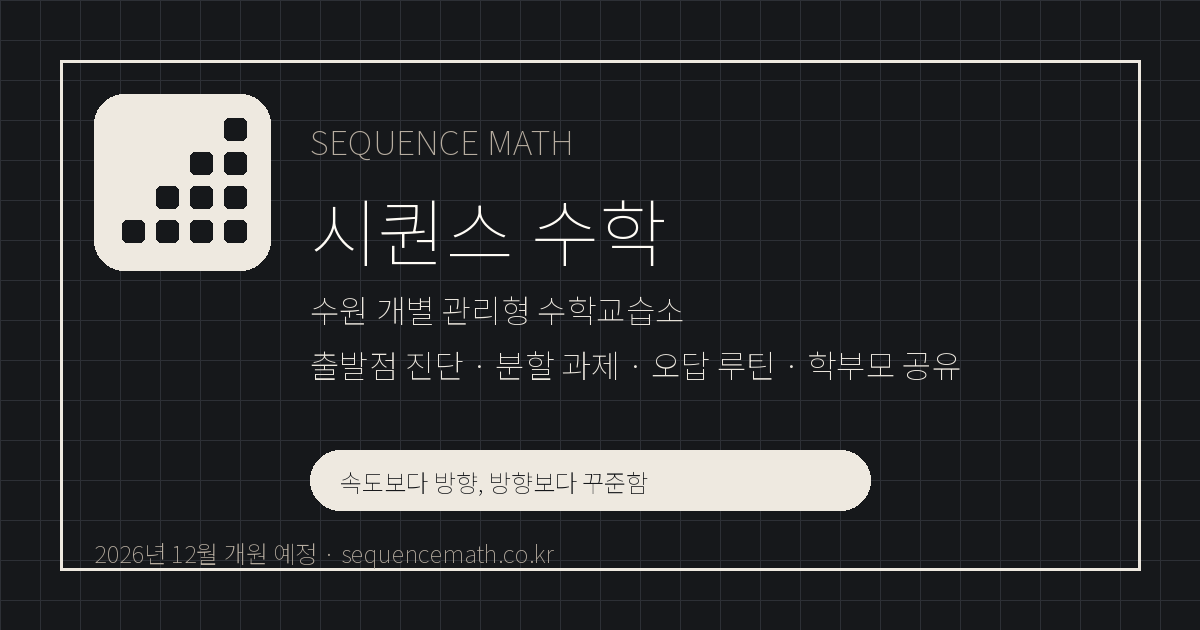
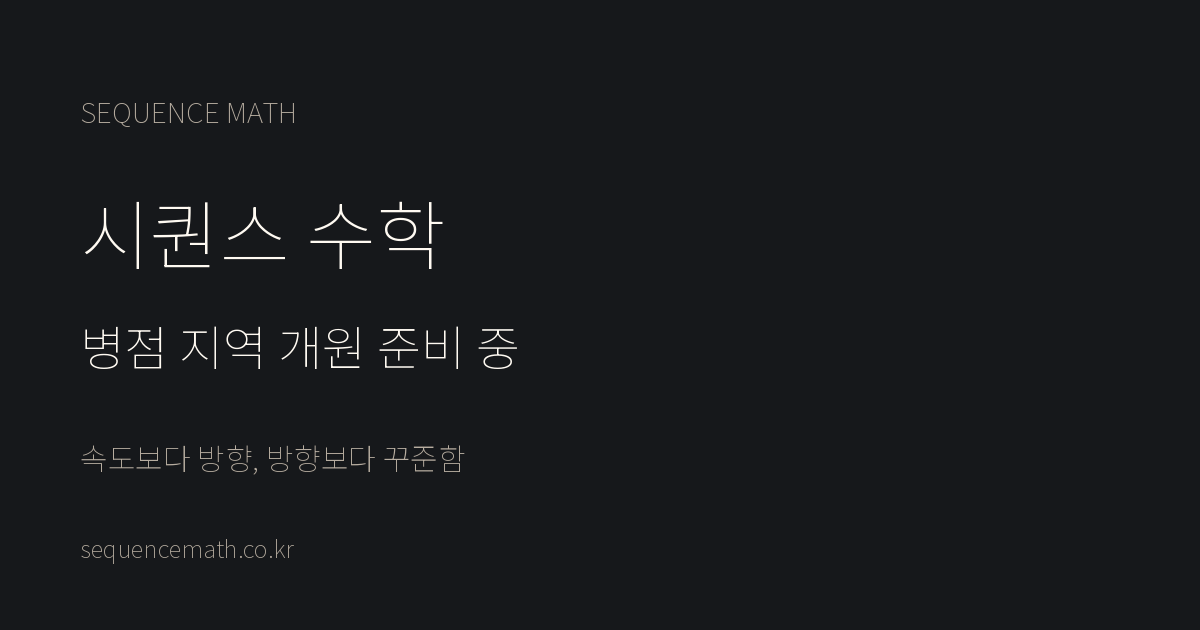
Publish Byeongjeom preopening region without detailed location

Changed region(s): [[0.0308, 0.0905, 0.9558, 0.9048], [0.6783, 0.5429, 0.8017, 0.6032]]

diff --git a/index.html b/index.html
@@ -5,9 +5,9 @@
   <meta name="viewport" content="width=device-width, initial-scale=1.0" />
 
   <!-- ── 기본 메타 태그 ─────────────────────── -->
-  <title>시퀀스 수학 | 수원 개별 관리형 수학교습소 · 초5~고2 수학 루틴 관리</title>
-  <meta name="description" content="수원 개별 관리형 수학교습소 시퀀스 수학. 초등 저학년은 수 감각·태도를, 초5~고2는 출발점 진단·분할 과제·오답 루틴·학부모 공유로 수학 루틴을 함께 만들어갑니다. 2026년 12월 개원 예정." />
-  <meta name="keywords" content="수원 수학교습소, 수원 수학학원, 수원 1:1 수학, 수원 개인과외, 초등수학 수원, 중학수학 수원, 고등수학 수원, 수능수학 수원, 내신수학 수원, 시퀀스수학" />
+  <title>시퀀스 수학 | 병점 개별 관리형 수학 · 초5~고2 수학 루틴 관리</title>
+  <meta name="description" content="병점 개별 관리형 수학 시퀀스 수학. 초등 저학년은 수 감각·태도를, 초5~고2는 출발점 진단·분할 과제·오답 루틴·학부모 공유로 수학 루틴을 함께 만들어갑니다. 병점 지역 개원 준비 중." />
+  <meta name="keywords" content="병점 지역 개원 준비 중, 병점 수학학원, 병점 1:1 수학, 병점 개인과외, 초등수학 병점, 중학수학 병점, 고등수학 병점, 수능수학 병점, 내신수학 병점, 시퀀스수학" />
   <meta name="author" content="시퀀스 수학" />
   <meta name="robots" content="index, follow" />
   <link rel="canonical" href="https://sequencemath.co.kr/" />
@@ -22,25 +22,23 @@
   <meta property="og:type" content="website" />
   <meta property="og:url" content="https://sequencemath.co.kr/" />
   <meta property="og:site_name" content="시퀀스 수학" />
-  <meta property="og:title" content="시퀀스 수학 | 수원 개별 관리형 수학교습소 · 초5~고2 수학 루틴 관리" />
-  <meta property="og:description" content="수원 개별 관리형 수학교습소 시퀀스 수학. 출발점 진단·분할 과제·오답 루틴 관리·학부모 공유로 초5~고2 수학 루틴을 함께 만들어갑니다. 2026년 12월 개원 예정." />
-  <meta property="og:image" content="https://sequencemath.co.kr/img/og-image.png" />
+  <meta property="og:title" content="시퀀스 수학 | 병점 개별 관리형 수학 · 초5~고2 수학 루틴 관리" />
+  <meta property="og:description" content="병점 개별 관리형 수학 시퀀스 수학. 출발점 진단·분할 과제·오답 루틴 관리·학부모 공유로 초5~고2 수학 루틴을 함께 만들어갑니다. 병점 지역 개원 준비 중." />
+  <meta property="og:image" content="https://sequencemath.co.kr/img/og-byeongjeom.png" />
   <meta property="og:image:width" content="1200" />
   <meta property="og:image:height" content="630" />
-  <meta property="og:image:alt" content="시퀀스 수학 — 수원 1:1 맞춤 수학교습소" />
+  <meta property="og:image:alt" content="시퀀스 수학 — 병점 지역 개원 준비 중" />
   <meta property="og:locale" content="ko_KR" />
 
   <!-- ── 트위터 카드 ─────────────────────────── -->
   <meta name="twitter:card" content="summary_large_image" />
-  <meta name="twitter:title" content="시퀀스 수학 | 수원 개별 관리형 수학교습소 · 초5~고2 수학 루틴 관리" />
-  <meta name="twitter:description" content="수원 개별 관리형 수학교습소. 출발점 진단, 분할 과제, 오답 루틴 관리, 학부모 공유로 초5~고2 수학 루틴을 함께 만들어갑니다. 2026년 12월 개원 예정." />
-  <meta name="twitter:image" content="https://sequencemath.co.kr/img/og-image.png" />
+  <meta name="twitter:title" content="시퀀스 수학 | 병점 개별 관리형 수학 · 초5~고2 수학 루틴 관리" />
+  <meta name="twitter:description" content="병점 개별 관리형 수학. 출발점 진단, 분할 과제, 오답 루틴 관리, 학부모 공유로 초5~고2 수학 루틴을 함께 만들어갑니다. 병점 지역 개원 준비 중." />
+  <meta name="twitter:image" content="https://sequencemath.co.kr/img/og-byeongjeom.png" />
 
   <!-- ── 지역 SEO ────────────────────────────── -->
   <meta name="geo.region" content="KR-41" />
-  <meta name="geo.placename" content="수원시, 경기도" />
-  <meta name="geo.position" content="37.2636;127.0286" />
-  <meta name="ICBM" content="37.2636, 127.0286" />
+  <meta name="geo.placename" content="화성시, 경기도" />
 
   <!-- ── 파비콘 & 웹 앱 매니페스트 ────────────── -->
   <link rel="icon" type="image/x-icon" href="/img/favicon.ico" />
@@ -61,21 +59,16 @@
         "@id": "https://sequencemath.co.kr/#organization",
         "name": "시퀀스 수학",
         "alternateName": "Sequence Math Academy",
-        "description": "시퀀스 수학은 수원 지역의 개별 관리형 수학교습소입니다. 초등 저학년은 수 감각과 학습 태도를, 초5~고2는 개념 구조와 공부 루틴을 중심으로 상담하며, 고3은 현재 학습 상태 점검과 보완 방향을 상담합니다.",
+        "description": "시퀀스 수학은 병점 지역 개원 준비 중입니다. 초등 저학년은 수 감각과 학습 태도를, 초5~고2는 개념 구조와 공부 루틴을 중심으로 상담하며, 고3은 현재 학습 상태 점검과 보완 방향을 상담합니다.",
         "url": "https://sequencemath.co.kr",
         "telephone": "+82-10-2496-4031",
         "sameAs": ["https://www.instagram.com/sequence_edu"],
         "foundingDate": "2026",
         "address": {
           "@type": "PostalAddress",
-          "addressLocality": "수원시",
+          "addressLocality": "화성시",
           "addressRegion": "경기도",
           "addressCountry": "KR"
-        },
-        "geo": {
-          "@type": "GeoCoordinates",
-          "latitude": "37.2636",
-          "longitude": "127.0286"
         },
         "openingHoursSpecification": [
           {
@@ -93,7 +86,7 @@
         ],
         "priceRange": "$$",
         "currenciesAccepted": "KRW",
-        "areaServed": { "@type": "City", "name": "수원시" },
+        "areaServed": { "@type": "City", "name": "화성시" },
         "hasOfferCatalog": {
           "@type": "OfferCatalog",
           "name": "학년별 수학 상담 과정",
@@ -262,7 +255,7 @@
         "@id": "https://sequencemath.co.kr/#website",
         "url": "https://sequencemath.co.kr",
         "name": "시퀀스 수학",
-        "description": "수원 개별 관리형 수학교습소 시퀀스 수학 공식 홈페이지",
+        "description": "병점 개별 관리형 수학 시퀀스 수학 공식 홈페이지",
         "inLanguage": "ko-KR",
         "publisher": { "@id": "https://sequencemath.co.kr/#organization" }
       },
@@ -338,7 +331,7 @@
   <div class="hero-inner">
     <!-- 왼쪽 -->
     <div class="hero-left">
-      <p class="hero-tag">수원 개별 관리형 수학교습소 · 초5~고2 수학 루틴 관리</p>
+      <p class="hero-tag">병점 지역 개원 준비 중 · 개별 관리형 수학</p>
 
       <h1 class="hero-title">
         수학은 속도보다<br>
@@ -414,17 +407,16 @@
       <p class="eyebrow">About</p>
       <h2 class="section-title">시퀀스 수학은<br>어떤 학원인가요?</h2>
       <div class="intro-body">
-        <p>시퀀스 수학은 수원 지역의 <strong>개별 관리형 수학교습소</strong>입니다. 학생의 현재 이해도와 학습 습관을 먼저 확인하고, 매일 해낼 수 있는 과제 단위, 풀이 과정, 오답 이유를 함께 관리합니다.</p>
+        <p>시퀀스 수학은 <strong>병점 지역 개원 준비 중</strong>입니다. 학생의 현재 이해도와 학습 습관을 먼저 확인하고, 매일 해낼 수 있는 과제 단위, 풀이 과정, 오답 이유를 함께 관리합니다.</p>
         <p>초등 저학년은 수 감각과 학습 태도 형성을, <strong>초5~고2</strong>는 개념 구조와 공부 루틴 형성을 중심으로 상담합니다. 고3은 현재 학습 상태를 점검하고 가능한 보완 방향을 함께 판단합니다.</p>
       </div>
       <div class="intro-pills">
-        <span class="intro-pill">수원 수학교습소</span>
+        <span class="intro-pill">병점 지역 개원 준비 중</span>
         <span class="intro-pill">개별 관리형 수학</span>
         <span class="intro-pill">초5~고2 핵심 대상</span>
         <span class="intro-pill">출발점 진단</span>
         <span class="intro-pill">오답 루틴 관리</span>
         <span class="intro-pill">학부모 학습 공유</span>
-        <span class="intro-pill">2026년 12월 개원 예정</span>
       </div>
     </div>
   </div>
@@ -1022,7 +1014,7 @@
       <a href="/consultation/" class="btn-fill reveal reveal-d2">첫 학습 진단 상담 신청하기 →</a>
     </div>
     <div class="home-contact-grid">
-      <div class="contact-detail reveal"><span class="contact-icon">📍</span><span><b>위치</b><small>경기도 수원시 · 2026년 12월 개원 예정<br>상세 주소 추후 공개 예정</small></span></div>
+      <div class="contact-detail reveal"><span class="contact-icon">📍</span><span><b>위치</b><small>경기도 화성시 · 병점 지역 개원 준비 중<br>상세 주소 추후 공개 예정</small></span></div>
       <a class="contact-detail reveal reveal-d1" href="tel:010-2496-4031"><span class="contact-icon">📞</span><span><b>전화</b><small>010-2496-4031</small></span></a>
       <div class="contact-detail reveal reveal-d2"><span class="contact-icon">🕐</span><span><b>운영시간</b><small>월–금 14:00–22:00<br>토 10:00–18:00 · 일요일 휴무</small></span></div>
       <div class="contact-detail reveal reveal-d3"><span class="contact-icon">💬</span><span><b>카카오톡 채널</b><small>@시퀀스수학</small></span></div>
@@ -1037,7 +1029,7 @@
 
   [ ] Google Business Profile 등록 (maps.google.com/business)
       - 카테고리: 학원, 교육 서비스
-      - 설명: "수원 개별 관리형 수학교습소. 초5~고2 수학 루틴 관리"
+      - 설명: "병점 개별 관리형 수학. 초5~고2 수학 루틴 관리"
       - 영업시간, 전화번호, 사진 업로드 필수
 
   [ ] 네이버 플레이스 등록 (naver.com/register)
@@ -1048,7 +1040,7 @@
       - 전화번호, 영업시간, 소개글 입력
 
   [ ] 네이버 블로그 개설 (blog.naver.com)
-      - 추천 포스트: 수원 수학교습소 선택 기준 / 오답 루틴 관리법 등
+      - 추천 포스트: 병점 수학학원 선택 기준 / 오답 루틴 관리법 등
 
   [ ] 네이버 서치어드바이저 소유권 인증
       - 메타 태그 `naver-site-verification` 값 교체
@@ -1056,8 +1048,8 @@
   [ ] Google Search Console 소유권 인증
       - 메타 태그 `google-site-verification` 값 교체
 
-  [x] og-image.png 실제 이미지 제작 (1200×630px)
-      - 로고 + "수원 개별 관리형 수학교습소 시퀀스 수학" 텍스트 포함
+  [x] og-byeongjeom.png 실제 이미지 제작 (1200×630px)
+      - 로고 + "병점 개별 관리형 수학 시퀀스 수학" 텍스트 포함
   ────────────────────────────────────────────────────────── -->
 
 <!-- ── FOOTER ──────────────────────────────────── -->
@@ -1094,7 +1086,7 @@
         <ul class="footer-links">
           <li><a href="tel:010-2496-4031">010-2496-4031</a></li>
           <li><span class="footer-muted">카카오톡 @시퀀스수학 · 채널 준비 중</span></li>
-          <li><span class="footer-muted">경기도 수원시 · 상세 주소 추후 공개</span></li>
+          <li><span class="footer-muted">경기도 화성시 · 상세 주소 추후 공개</span></li>
           <li><span class="footer-muted">월–금 14:00–22:00</span></li>
         </ul>
       </div>
@@ -1110,7 +1102,7 @@
       </div>
     </div>
     <div class="footer-bottom">
-      <span>시퀀스 수학 · 경기도 수원시 (주소 추후 공개 예정) · © 2026 Sequence Math. All rights reserved.</span>
+      <span>시퀀스 수학 · 경기도 화성시 (주소 추후 공개 예정) · © 2026 Sequence Math. All rights reserved.</span>
       <div class="footer-badges">
         <span class="footer-badge">2026 개원 준비 중</span>
         <span class="footer-badge">개별 관리형 수학</span>

diff --git a/tests/location-disclosure.test.js b/tests/location-disclosure.test.js
@@ -1,0 +1,8 @@
+import { it, expect } from 'vitest';
+import { readFileSync } from 'node:fs';
+it('publishes only the Byeongjeom preopening region, without a street address or coordinates', () => {
+ const html = readFileSync('index.html', 'utf8');
+ expect(html).toContain('병점 지역 개원 준비 중');
+ expect(html).not.toMatch(/수원|37\.2636|127\.0286|geo.position|"GeoCoordinates"|병점서로|203호/);
+ expect(html).toContain('og-byeongjeom.png');
+});
